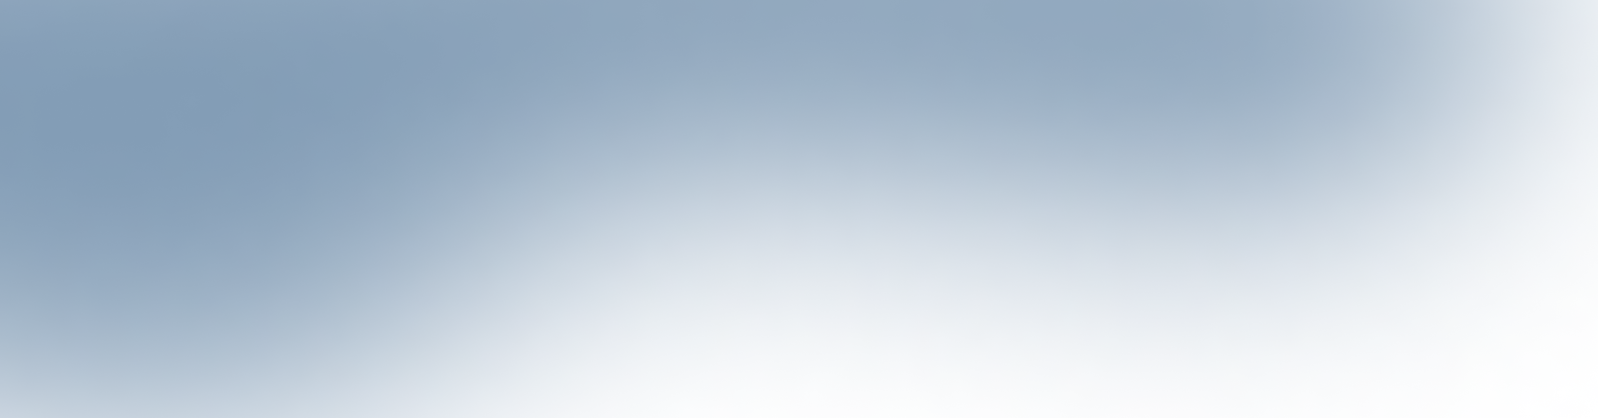
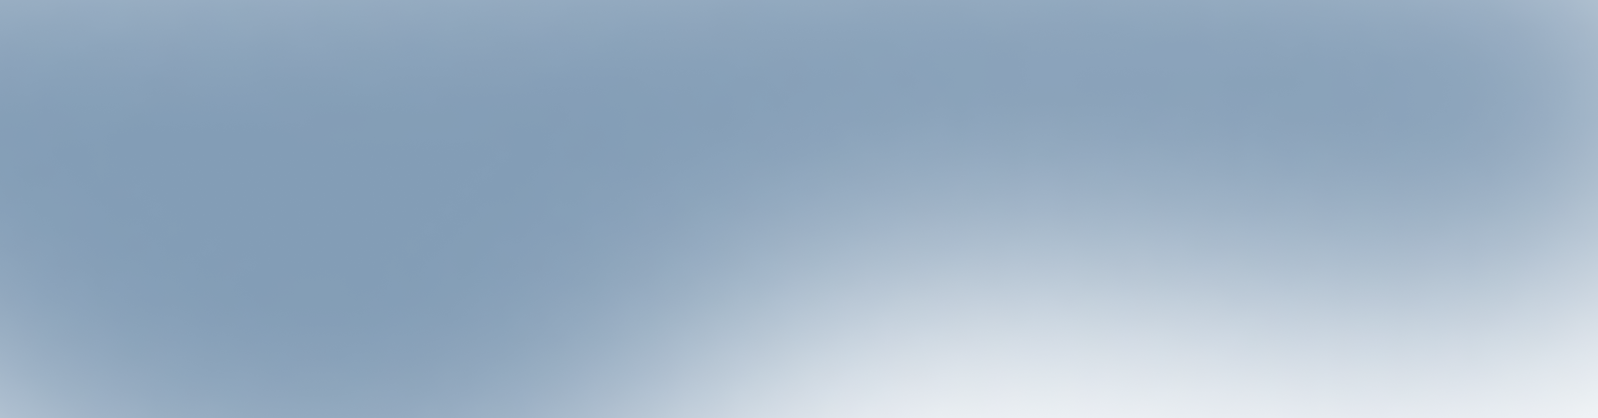
summary
added dynamic backgrounds to projects

diff --git a/src/components/HomePage/Projects.module.css b/src/components/HomePage/Projects.module.css
@@ -10,39 +10,7 @@
   min-height: 50vh;
   box-sizing: border-box;
   text-decoration: none;
-  animation: breathe 5s ease-in-out 2s infinite alternate;
-}
-
-@keyframes breathe {
-  0% {
-    transform: scale(1);
-  }
-  50% {
-    transform: scale(1.005);
-  }
-  100% {
-    transform: scale(1);
-  }
-}
-
-.thumbnail {
-  position: absolute;
-  width: 100%;
-  height: 100%;
-  top: 0;
-  left: 0;
-  box-sizing: border-box;
-  object-fit: cover;
-  object-position: center;
-  z-index: -1;
-}
-
-.thumbnail img {
-  width: 100%;
-  height: 100%;
-  object-fit: cover;
-  object-position: center;
-  border-radius: 20px;
+  text-shadow: 2px 2px 10px rgba(0, 0, 0, 0.8);
 }
 
 .project {
@@ -53,7 +21,7 @@
   height: 100%;
   padding: 10px 15px;
   border-radius: 20px;
-  background-color: rgba(0, 0, 0, 0.5);
+  /* background-color: rgba(0, 0, 0, 0.5); */
   color: white;
 }
 

diff --git a/src/components/HomePage/ProjectTile.js b/src/components/HomePage/ProjectTile.js
@@ -1,12 +1,12 @@
 import { CustomButton } from "../CustomButton";
 import styles from "./Projects.module.css";
+import { MovingBackground } from "../MovingBackground";
 
 const ProjectTile = ({ projectInfo = {} }) => {
   return (
     <a className={styles.tile} href={projectInfo.link}>
-      <div className={styles.thumbnail}>
-        <img src={projectInfo.thumbnail} alt="project-thumbnail" />
-      </div>
+      <MovingBackground src={projectInfo.background} />
+      <MovingBackground src={projectInfo.thumbnail} animated={false} />
       <div className={styles.project}>
         <h2 className={styles.title}>{projectInfo.name}</h2>
         <p className={styles.description}>{projectInfo.description}</p>

diff --git a/src/assets/projectsInfo.js b/src/assets/projectsInfo.js
@@ -1,4 +1,6 @@
 import poseroyaleThumbnail from "./poseroyale.png";
+import poseroyaleBackground from "./bgposeroyale.png";
+import wwafaBackground from "./bgwwafa.png";
 import wwafaThumbnail from "./wwafa.png";
 
 export const projectsInfo = {
@@ -6,11 +8,13 @@ export const projectsInfo = {
     name: "Pose Royale",
     description: "A game about posing",
     thumbnail: poseroyaleThumbnail,
+    background: poseroyaleBackground,
     link: "https://poseroyale.netlify.app/",
   },
   wwafa: {
     name: "When We All Fall Asleep",
     description: "A Unity Horror Game",
     thumbnail: wwafaThumbnail,
+    background: wwafaBackground,
   },
 };

diff --git a/src/components/MovingBackground.js b/src/components/MovingBackground.js
@@ -1,9 +1,13 @@
 import styles from "./MovingBackground.module.css";
 
-export const MovingBackground = ({ src, alt = "bg-cloud" }) => {
+export const MovingBackground = ({
+  src,
+  alt = "bg-cloud",
+  animated = true,
+}) => {
   return (
     <div className={styles.bg}>
-      <img src={src} alt={alt} />
+      <img src={src} alt={alt} style={!animated ? { animation: "none" } : {}} />
     </div>
   );
 };
